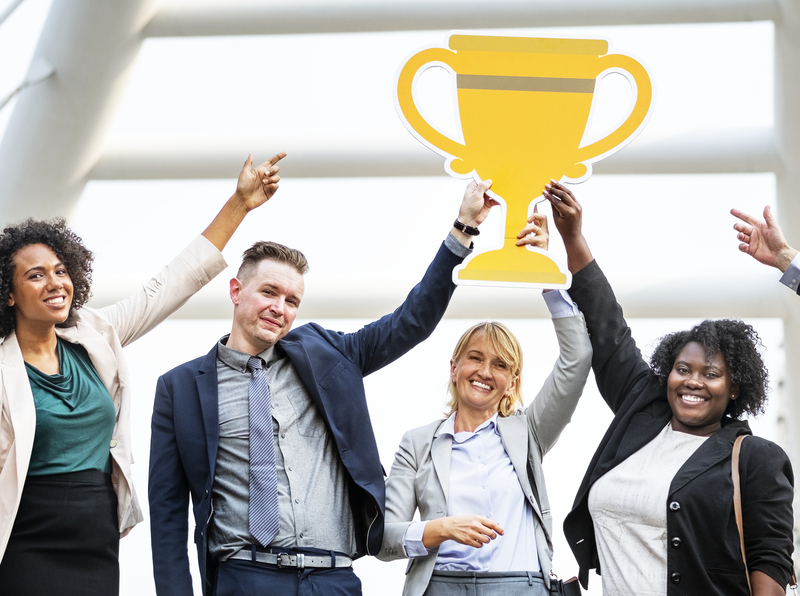
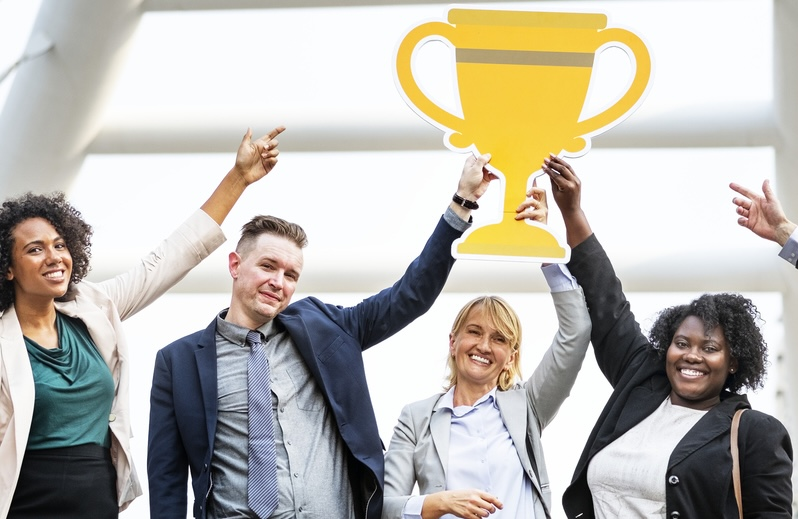
fixed jpeg to webp

diff --git a/chamber/index.html b/chamber/index.html
@@ -71,7 +71,7 @@
     </header>
     <main>
         <div class="hero">
-            <img src="images/hero.jpg"
+            <img src="images/hero.webp"
                 alt="Members of the WCCI, cheering themselves on for their latest community achievement.">
             <a href="join.html" class="join-button">Join The WACCI</a>
         </div>
